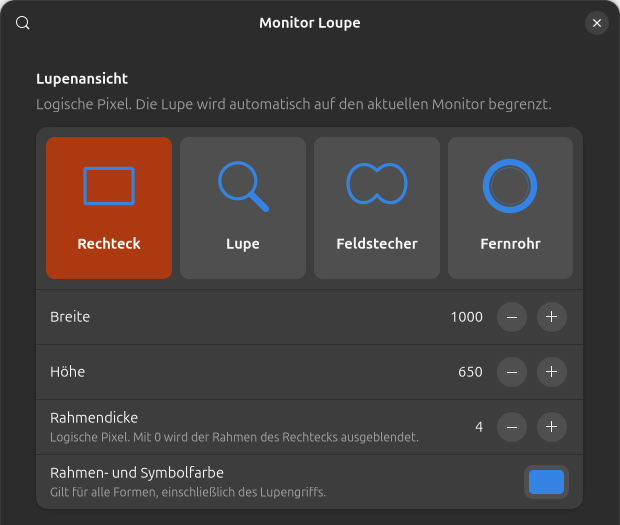
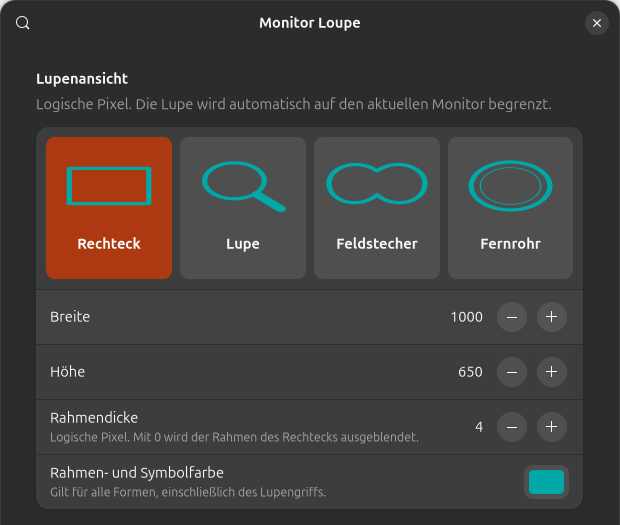
Tint lens setting symbols with selected frame color

diff --git a/prefs.js b/prefs.js
@@ -1,5 +1,6 @@
 // SPDX-License-Identifier: GPL-2.0-or-later
 import Adw from 'gi://Adw';
+import Cairo from 'cairo';
 import Gdk from 'gi://Gdk';
 import Gio from 'gi://Gio';
 import Gtk from 'gi://Gtk';
@@ -30,6 +31,7 @@ export default class MonitorLoupePreferences extends ExtensionPreferences {
             margin_start: 8, margin_end: 8,
         });
         let updatingShape = false;
+        const shapeAreas = [];
         const shapeButtons = shapes.map((value, index) => {
             const button = new Gtk.ToggleButton({hexpand: true, tooltip_text: titles[index]});
             button.update_property([Gtk.AccessibleProperty.LABEL], [titles[index]]);
@@ -37,10 +39,11 @@ export default class MonitorLoupePreferences extends ExtensionPreferences {
                 orientation: Gtk.Orientation.VERTICAL, spacing: 8,
                 margin_top: 12, margin_bottom: 12,
             });
-            content.append(new Gtk.Image({
-                gicon: new Gio.FileIcon({file: this.dir.get_child('icons').get_child(`${value}.svg`)}),
-                pixel_size: 64,
-            }));
+            const symbol = new Gtk.DrawingArea({content_width: 64, content_height: 64});
+            symbol.set_draw_func((_area, cr, width, height) =>
+                this._drawShapeSymbol(cr, width, height, value, settings));
+            shapeAreas.push(symbol);
+            content.append(symbol);
             content.append(new Gtk.Label({
                 label: titles[index], wrap: true, justify: Gtk.Justification.CENTER,
                 height_request: 36,
@@ -64,7 +67,7 @@ export default class MonitorLoupePreferences extends ExtensionPreferences {
         border.subtitle = _('Logical pixels. Set to 0 to hide the rectangle frame.');
         const colorRow = new Adw.ActionRow({
             title: _('Frame and symbol color'),
-            subtitle: _('Applies to all shapes, including the magnifying glass handle.'),
+            subtitle: _('Colors all four symbols and the lens frame and handle.'),
         });
         const colorButton = new Gtk.ColorDialogButton({
             dialog: new Gtk.ColorDialog({title: _('Frame and symbol color'), with_alpha: false}),
@@ -79,6 +82,8 @@ export default class MonitorLoupePreferences extends ExtensionPreferences {
             colorButton.rgba = rgba;
             updatingColor = false;
             colorButton.sensitive = settings.is_writable('frame-color');
+            for (const area of shapeAreas)
+                area.queue_draw();
         };
         updateColor();
         colorButton.connect('notify::rgba', () => {
@@ -189,6 +194,43 @@ export default class MonitorLoupePreferences extends ExtensionPreferences {
         settings.bind(key, row, 'value', Gio.SettingsBindFlags.DEFAULT);
         group.add(row);
         return row;
+    }
+
+    _drawShapeSymbol(cr, width, height, shape, settings) {
+        const rgba = new Gdk.RGBA();
+        rgba.parse(frameColor(settings.get_string('frame-color')));
+        cr.save();
+        cr.scale(width / 160, height / 160);
+        cr.setSourceRGBA(rgba.red, rgba.green, rgba.blue, 1);
+        cr.setLineWidth(8);
+        cr.setLineCap(Cairo.LineCap.ROUND);
+        cr.setLineJoin(Cairo.LineJoin.ROUND);
+        if (shape === 'rectangle') {
+            cr.rectangle(20, 36, 120, 88);
+            cr.stroke();
+        } else if (shape === 'loupe') {
+            cr.arc(67, 67, 45, 0, Math.PI * 2);
+            cr.stroke();
+            cr.setLineWidth(16);
+            cr.moveTo(101, 101);
+            cr.lineTo(137, 137);
+            cr.stroke();
+        } else if (shape === 'binoculars') {
+            cr.moveTo(80, 42);
+            cr.curveTo(48, 7, 3, 35, 8, 80);
+            cr.curveTo(12, 123, 55, 137, 80, 102);
+            cr.curveTo(105, 137, 148, 123, 152, 80);
+            cr.curveTo(157, 35, 112, 7, 80, 42);
+            cr.closePath();
+            cr.stroke();
+        } else {
+            cr.arc(80, 80, 60, 0, Math.PI * 2);
+            cr.stroke();
+            cr.setLineWidth(2);
+            cr.arc(80, 80, 46, 0, Math.PI * 2);
+            cr.stroke();
+        }
+        cr.restore();
     }
 
     _capture(parent, binding, reserved) {
